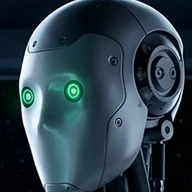
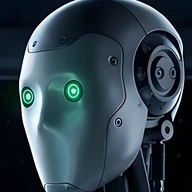
Nexus at twice the pixels, 1840 x 2320 for 662 css: the render through Real-ESRGAN (from 1600 x 900, which keeps the shell's detail without the white rim the 2560 input gave). Local sharpening is gone with it. "nechtelo by to v lepsim rozliseni?" Not pushed.
Effort: high

diff --git a/outbox/pitch-cards/build_scene.py b/outbox/pitch-cards/build_scene.py
@@ -5,6 +5,7 @@
 scene.webp   the room alone: the baked glass pane painted out, Nexus gone, so it can fill any screen behind him
 nexus.webp   Nexus cut out by hand-traced outline (2560 x 1440 coordinates below), to stand in FRONT of the card: the card
              sits under his finger and slides behind him when it is swiped to him. Left edge x=NX, top y=NY in the render.
+             Cut from SHARP at twice those coordinates, so a screen at any scale has the pixels (see gen/MANIFEST.md).
 """
 from __future__ import annotations
 
@@ -15,6 +16,7 @@ from PIL import Image, ImageDraw, ImageFilter
 
 HERE = Path(__file__).resolve().parent
 SRC = HERE.parent / "quest" / "gen" / "lab-16x9.png"
+SHARP = HERE.parent / "quest" / "gen" / "lab-16x9-5120.png"   # the same render through Real-ESRGAN, twice the size
 NX, NY = 1640, 280
 
 # Nexus's outline in the render's pixels, down his face, over the collar and shoulder, along the arm to the fingertip,
@@ -88,23 +90,23 @@ def room(a: np.ndarray) -> np.ndarray:
 def nexus(a: np.ndarray) -> Image.Image:
     """Nexus alone: the outline feathered a little, and the baked pane's rim taken off his hand."""
     b = a.astype(np.float32).copy()
-    for y in range(600, 900):
-        l, r = 1783, 1801
+    for y in range(1200, 1800):
+        l, r = 3566, 3602
         t = np.linspace(0, 1, r - l)[:, None]
         b[y, l:r] = b[y, l] * (1 - t) + b[y, r] * t
-    # the render was enlarged to 2560 and is soft at this size: the edges of his shell are brought back, finest first
-    im = Image.fromarray(np.clip(b, 0, 255).astype(np.uint8)).filter(ImageFilter.UnsharpMask(1.5, 110, 2)).filter(ImageFilter.UnsharpMask(4, 35, 3)).convert("RGBA")
+    im = Image.fromarray(np.clip(b, 0, 255).astype(np.uint8)).convert("RGBA")
     mask = Image.new("L", im.size, 0)
-    ImageDraw.Draw(mask).polygon(OUTLINE, fill=255)
-    mask = mask.filter(ImageFilter.GaussianBlur(1.1))
+    ImageDraw.Draw(mask).polygon([(2 * x, 2 * y) for x, y in OUTLINE], fill=255)
+    mask = mask.filter(ImageFilter.GaussianBlur(2.2))
     im.putalpha(mask)
-    return im.crop((NX, NY, 2560, 1440))
+    return im.crop((2 * NX, 2 * NY, 5120, 2880))
 
 
 if __name__ == "__main__":
     src = np.asarray(Image.open(SRC).convert("RGB"))
     Image.fromarray(room(src)).save(HERE / "scene.webp", quality=92, method=6)
-    nexus(src).save(HERE / "nexus.webp", quality=96, method=6)
-    Image.fromarray(src[310:690, 1880:2260]).resize((192, 192), Image.LANCZOS).save(HERE / "nexus-face.webp", quality=92, method=6)
+    sharp = np.asarray(Image.open(SHARP).convert("RGB"))
+    nexus(sharp).save(HERE / "nexus.webp", quality=90, method=6)
+    Image.fromarray(sharp[620:1380, 3760:4520]).resize((192, 192), Image.LANCZOS).save(HERE / "nexus-face.webp", quality=92, method=6)
     for f in ("scene.webp", "nexus.webp", "nexus-face.webp"):
         print(f, (HERE / f).stat().st_size // 1024, "KB")

diff --git a/outbox/pitch-cards/README.md b/outbox/pitch-cards/README.md
@@ -13,7 +13,7 @@ http://127.0.0.1:8802/pitch-cards. `?view=board` or `?view=deals` opens those ta
 
 The third take, after "jezisi kriste co to je za tragicky design" on the first (their `.at` chips and tags) and "to je snad
 jeste hnusnejsi" on the second (Inter on glass, gradient numerals, aurora blobs). The Den is the render of Nexus at a
-holographic chart (`outbox/quest/gen/lab-16x9.png`, the original, git-ignored, the source for `build_scene.py`):
+holographic chart (`outbox/quest/gen/lab-16x9.png` and its Real-ESRGAN enlargement `lab-16x9-5120.png`, git-ignored, the sources for `build_scene.py`):
 
 * `scene.webp`: the room alone, the baked pane painted out and Nexus gone (right of x=1300 it is its left side mirrored).
 * `nexus.webp`: Nexus cut out along a hand-traced outline, standing in front of the card, so the live card sits under the
